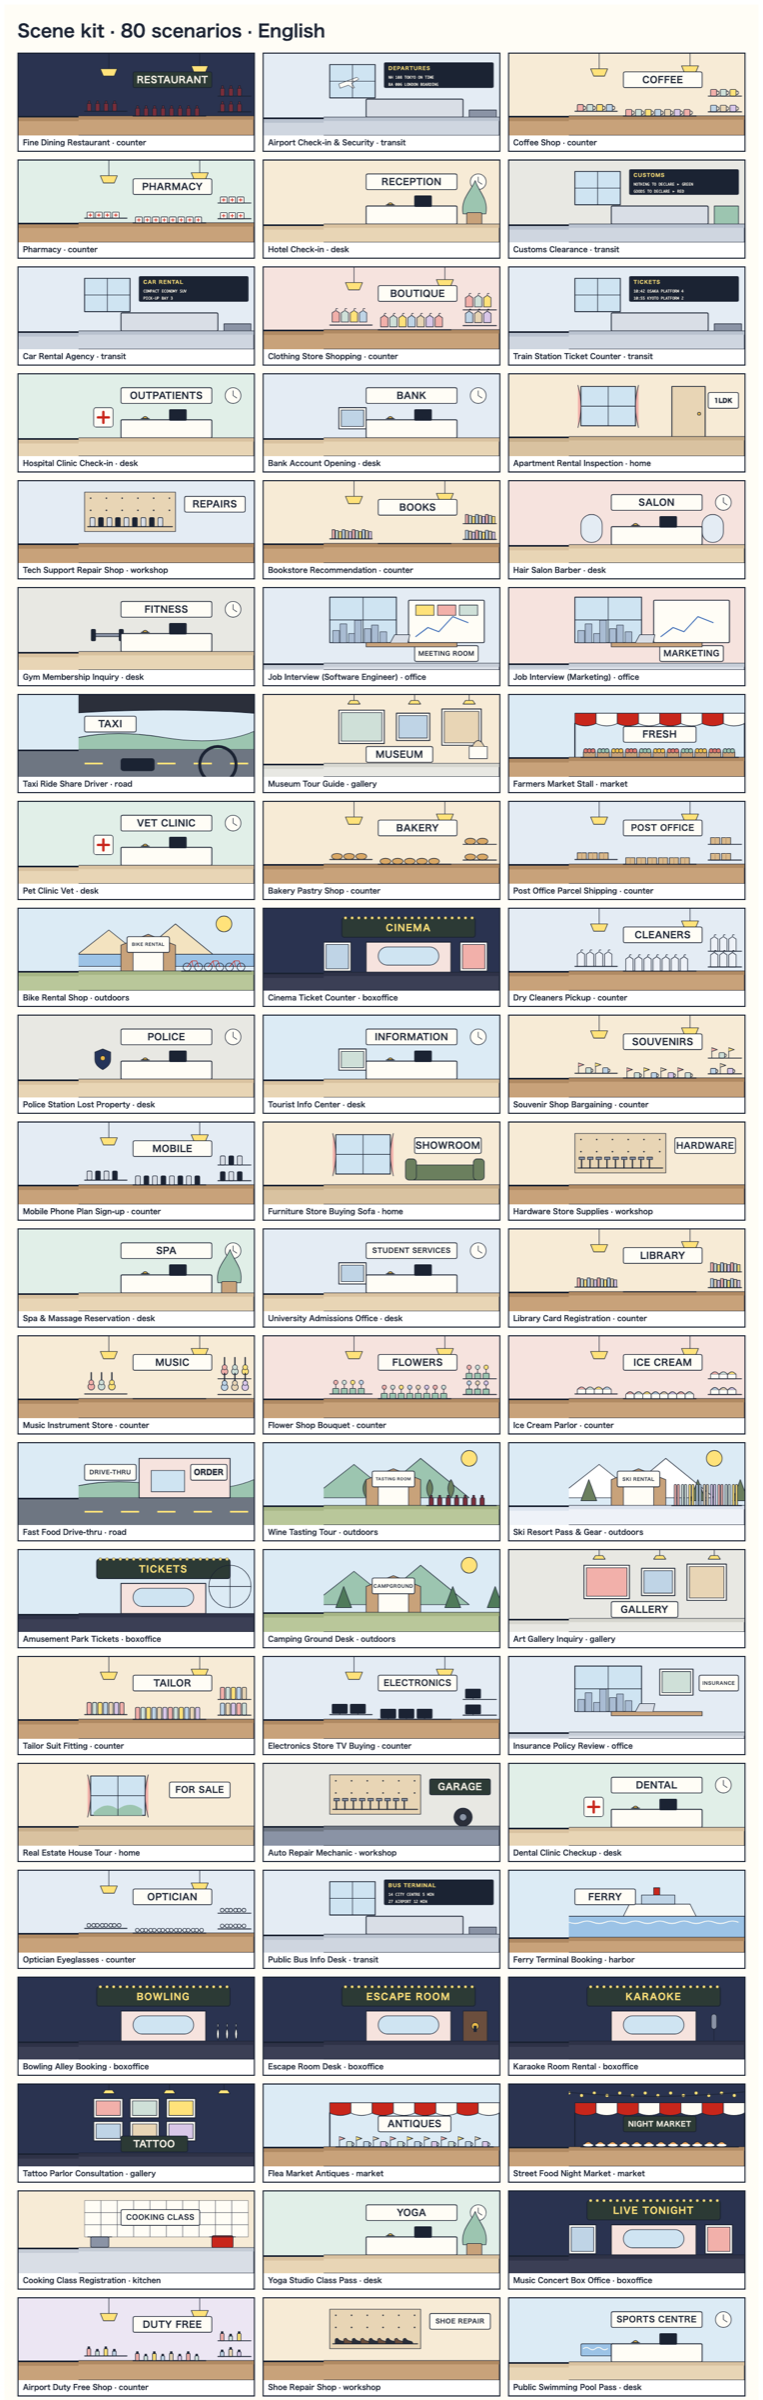
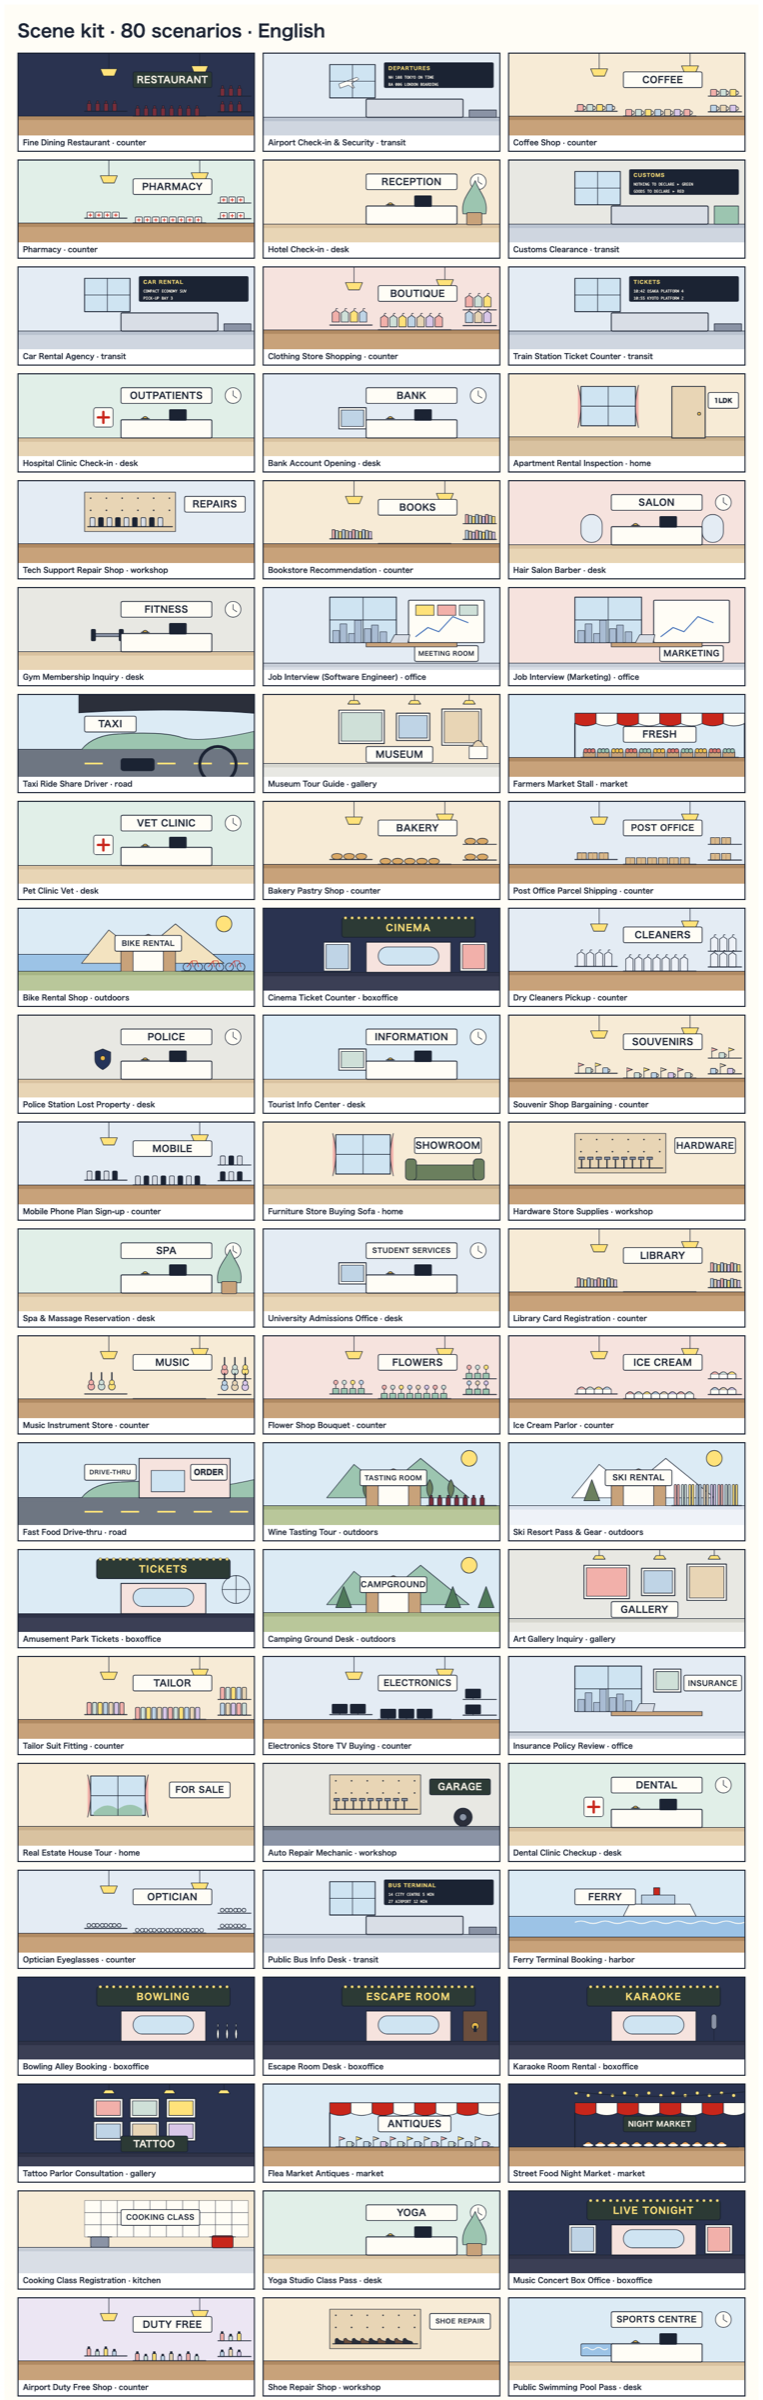
Review fixes for the scene kit: one floor line, nothing cut at the clip, readable signs
From the review of #52:
- The floor was drawn twice — a counter inside the props drawing and the
  full-width layer behind it — and the two met ~2px apart. The drawing no
  longer draws a counter; the layer's line is scaled with the band. Water
  (harbour, beach) is a full-width band of its own.
- Hills, mountains, the harbour sea and the night-market lights started
  left of x=420 and were cut in a straight line; they now start inside it.
- Signs in narrow boxes came out at 9 units ("PRIVATE BANKING"); the office
  and outdoor boxes are wider, and a test fails if any sign in any scenario
  or language is drawn below 14.
- The Ferris wheel moved behind and clear of the TICKETS board; no trees
  under the ski rack; the drive-thru ORDER board reads ご注文 in Japanese;
  a test comment named the wrong file.

diff --git a/frontend/src/art/Scene.tsx b/frontend/src/art/Scene.tsx
@@ -123,15 +123,6 @@ function Plant({ x, y }: { x: number; y: number }) {
   )
 }
 
-function Counter({ y = 206, color = WOOD, edge = WOOD_DARK }: { y?: number; color?: string; edge?: string }) {
-  return (
-    <g>
-      <rect x={0} y={y} width={1000} height={270 - y} fill={color} {...LINE} strokeWidth={3} />
-      <rect x={0} y={y} width={1000} height={12} fill={edge} />
-    </g>
-  )
-}
-
 function Window({ x, y, w, h, night = false, children }: { x: number; y: number; w: number; h: number; night?: boolean; children?: ReactNode }) {
   return (
     <g>
@@ -183,7 +174,6 @@ function CounterScene({ spec, sign }: { spec: SceneSpec; sign: string }) {
       <rect x={430} y={130} width={460} height={8} fill="none" />
       <Shelf x={440} y={190} w={140} goods={spec.goods} rows={1} />
       <Shelf x={880} y={140} w={110} goods={spec.goods} rows={2} />
-      <Counter />
       <Shelf x={600} y={206} w={240} goods={spec.goods === 'books' || spec.goods === 'guitars' || spec.goods === 'bikes' ? 'none' : spec.goods} rows={1} />
     </g>
   )
@@ -209,7 +199,6 @@ function DeskScene({ spec, sign }: { spec: SceneSpec; sign: string }) {
         <rect x={720} y={116} width={56} height={36} rx={3} fill="#1B2333" /><path d="M748 152 v-6" />
         <path d="M630 146 q10 -14 20 0 Z" fill="#E9B949" /><path d="M626 146 h28" />
       </g>
-      <Counter y={210} color="#E8D5B5" edge="#D9C2A0" />
     </g>
   )
 }
@@ -235,7 +224,6 @@ function TransitScene({ spec, sign }: { spec: SceneSpec; sign: string }) {
         {v !== 'customs' && <rect x={900} y={186} width={90} height={24} fill="#8A93A5" />}
         {v === 'customs' && <path d="M900 150 h80 v60 h-80 Z" fill="#9CC5B0" />}
       </g>
-      <Counter y={210} color="#CFD6E0" edge="#B9C2CF" />
     </g>
   )
 }
@@ -250,14 +238,13 @@ function OfficeScene({ spec, sign }: { spec: SceneSpec; sign: string }) {
             <path d="M724 160 l40 -30 l36 14 l46 -50 l50 20" fill="none" stroke="#2A5DB0" strokeWidth={3} />
             {v === 'startup' && <g><rect x={724} y={56} width={60} height={34} fill="#FFE27A" /><rect x={796} y={56} width={60} height={34} fill="#F2B0AA" /><rect x={868} y={56} width={60} height={34} fill="#CFE0D8" /></g>}
           </g>
-        : <g><Frame x={720} y={40} w={110} h={86} fill="#CFE0D8" /><Sign x={850} y={60} w={130} text={sign} /></g>}
+        : <g><Frame x={700} y={40} w={90} h={76} fill="#CFE0D8" /><Sign x={800} y={60} w={190} text={sign} /></g>}
       {(v === 'chart' || v === 'startup') && <Sign x={720} y={190} w={210} text={sign} />}
       {v === 'cowork' && <Plant x={900} y={206} />}
       <g {...LINE}>
         <rect x={560} y={180} width={300} height={14} fill={WOOD} />
         <path d="M640 180 l14 -26 h50 l-6 26" fill="#D9DEE6" />
       </g>
-      <Counter y={248} color="#D9DEE6" edge="#C5CCD6" />
     </g>
   )
 }
@@ -266,27 +253,26 @@ function MarketScene({ spec, sign }: { spec: SceneSpec; sign: string }) {
   const night = spec.variant === 'night'
   return (
     <g>
-      {night && <g>{Array.from({ length: 14 }, (_, i) => <circle key={i} cx={420 + i * 42} cy={28 + (i % 2) * 8} r={6} fill="#FFE27A" stroke={INK} strokeWidth={1.5} />)}<path d="M400 24 q300 30 600 0" fill="none" {...LINE} /></g>}
+      {night && <g>{Array.from({ length: 14 }, (_, i) => <circle key={i} cx={444 + i * 40} cy={28 + (i % 2) * 8} r={6} fill="#FFE27A" stroke={INK} strokeWidth={1.5} />)}<path d="M440 24 q280 30 560 0" fill="none" {...LINE} /></g>}
       {spec.variant === 'greenhouse'
         ? <g {...LINE} fill="none"><path d="M430 200 V80 L600 30 L770 80 V200" fill="#E1EFE8" /><path d="M515 55 V200 M600 30 V200 M685 55 V200 M430 120 H770" /></g>
         : <g>{Array.from({ length: 8 }, (_, i) => <path key={i} d={`M${440 + i * 70} 60 h70 v34 q-35 16 -70 0 Z`} fill={i % 2 ? '#FFFDF6' : '#C8261B'} {...LINE} />)}
             <path d="M440 94 V206 M1000 94 V206" {...LINE} strokeWidth={4} /></g>}
       <Sign x={600} y={104} w={240} text={sign} dark={night} />
-      <Counter y={206} />
       <Shelf x={460} y={206} w={520} goods={spec.goods} rows={1} />
     </g>
   )
 }
 
-function RoadScene({ spec, sign }: { spec: SceneSpec; sign: string }) {
+function RoadScene({ spec, sign, ja }: { spec: SceneSpec; sign: string; ja?: boolean }) {
   const v = spec.variant
   return (
     <g>
-      <path d="M380 150 Q520 110 700 140 T1000 120 V180 H380 Z" fill="#9CC5B0" {...LINE} />
+      <path d="M430 180 Q470 130 560 128 Q700 120 760 140 T1000 120 V180 Z" fill="#9CC5B0" {...LINE} />
       <rect x={0} y={180} width={1000} height={90} fill="#6E7682" />
       <path d="M440 226 h60 M560 226 h60 M680 226 h60 M800 226 h60 M920 226 h60" stroke="#FFE27A" strokeWidth={6} />
       {v === 'roadside' && <g {...LINE}><rect x={700} y={120} width={150} height={60} rx={14} fill="#FFFDF6" /><rect x={720} y={110} width={40} height={12} fill="#2A5DB0" /><rect x={760} y={110} width={40} height={12} fill="#C8261B" /><circle cx={730} cy={182} r={14} fill={INK} /><circle cx={820} cy={182} r={14} fill={INK} /></g>}
-      {v === 'drive' && <g {...LINE}><rect x={620} y={50} width={300} height={130} fill="#F6E3DE" strokeWidth={3} /><rect x={660} y={90} width={110} height={70} fill="#CFE4F2" /><Sign x={790} y={70} w={120} text="ORDER" /></g>}
+      {v === 'drive' && <g {...LINE}><rect x={620} y={50} width={300} height={130} fill="#F6E3DE" strokeWidth={3} /><rect x={660} y={90} width={110} height={70} fill="#CFE4F2" /><Sign x={790} y={70} w={120} text={ja ? 'ご注文' : 'ORDER'} /></g>}
       {v === 'car' && <g {...LINE}><path d="M0 0 H1000 V60 Q700 40 400 60 Q200 70 0 50 Z" fill="#2B2F3A" /><circle cx={880} cy={230} r={60} fill="none" stroke={INK} strokeWidth={10} /><rect x={560} y={210} width={110} height={40} rx={8} fill="#1B2333" /></g>}
       <Sign x={440} y={70} w={170} text={sign} />
     </g>
@@ -305,7 +291,6 @@ function GalleryScene({ spec, sign }: { spec: SceneSpec; sign: string }) {
       {v === 'wedding' && <Shelf x={460} y={206} w={500} goods="flowers" rows={1} />}
       {v === 'museum' && <g {...LINE}><rect x={900} y={170} width={60} height={40} fill="#FFFDF6" /><path d="M910 170 q20 -40 40 0" fill="#E8D5B5" /></g>}
       <Sign x={560} y={170} w={220} text={sign} dark={night} />
-      <Counter y={226} color={night ? '#3B3F55' : '#E8E8E3'} edge={night ? '#2E3247' : '#D6D6CF'} />
     </g>
   )
 }
@@ -319,7 +304,6 @@ function WorkshopScene({ spec, sign }: { spec: SceneSpec; sign: string }) {
       <Shelf x={450} y={150} w={280} goods={spec.goods} rows={1} />
       <Sign x={770} y={50} w={200} text={sign} dark={v === 'garage'} />
       {v === 'garage' && <g {...LINE}><circle cx={880} cy={176} r={30} fill="#2B2F3A" /><circle cx={880} cy={176} r={12} fill="#8A93A5" /></g>}
-      <Counter y={206} color={v === 'garage' ? '#8A93A5' : WOOD} edge={v === 'garage' ? '#6E7682' : WOOD_DARK} />
     </g>
   )
 }
@@ -331,7 +315,6 @@ function HomeScene({ spec, sign }: { spec: SceneSpec; sign: string }) {
       <g>
         {[460, 700].map((x, i) => <g key={x} {...LINE}><rect x={x} y={40} width={120} height={170} fill={i ? '#C8A27A' : '#8C5A4A'} strokeWidth={3} /><circle cx={x + 100} cy={130} r={5} fill="#E9B949" /><rect x={x + 30} y={60} width={60} height={24} fill="#FFFDF6" /><text x={x + 60} y={78} textAnchor="middle" fontFamily="'Space Grotesk', sans-serif" fontWeight={700} fontSize={16} fill={INK}>{i ? sign : '301'}</text></g>)}
         <Plant x={880} y={210} />
-        <Counter y={210} color="#D9C2A0" edge="#C9B08C" />
       </g>
     )
   }
@@ -344,7 +327,6 @@ function HomeScene({ spec, sign }: { spec: SceneSpec; sign: string }) {
       {v === 'house' && <Sign x={720} y={60} w={200} text={sign} />}
       {v === 'empty' && <g {...LINE}><rect x={760} y={40} width={110} height={170} fill="#E8D5B5" strokeWidth={3} /><circle cx={850} cy={130} r={5} fill="#E9B949" /><Sign x={880} y={60} w={100} text={sign} /></g>}
       {v === 'lived' && <g {...LINE}><path d="M840 40 q10 30 -4 60" stroke="#5D7FA6" strokeWidth={3} fill="none" /><Sign x={720} y={50} w={160} text={sign} /></g>}
-      <Counter y={206} color="#D9C2A0" edge="#C9B08C" />
     </g>
   )
 }
@@ -355,13 +337,12 @@ function OutdoorsScene({ spec, sign }: { spec: SceneSpec; sign: string }) {
   return (
     <g>
       <circle cx={900} cy={50} r={26} fill="#FFE27A" {...LINE} />
-      <path d="M380 180 L520 70 L620 150 L740 50 L900 180 Z" fill={snow ? '#FFFFFF' : v === 'beach' ? '#F3E3C0' : '#9CC5B0'} {...LINE} />
-      {v === 'beach' && <rect x={380} y={150} width={620} height={40} fill="#9CC3E6" {...LINE} />}
+      <path d="M430 180 L520 70 L620 150 L740 50 L900 180 Z" fill={snow ? '#FFFFFF' : v === 'beach' ? '#F3E3C0' : '#9CC5B0'} {...LINE} />
+      
       {v === 'vineyard' && Array.from({ length: 5 }, (_, i) => <path key={i} d={`M${560 + i * 70} 180 q-20 -30 0 -60 q20 30 0 60`} fill="#6B7F5E" {...LINE} />)}
-      {(v === 'forest' || snow) && [460, 820, 960].map((x) => <path key={x} d={`M${x} 190 l26 -70 l26 70 Z`} fill={snow ? '#6B7F5E' : '#4F7A5A'} {...LINE} />)}
+      {(v === 'forest' || snow) && (snow ? [470] : [460, 820, 930]).map((x) => <path key={x} d={`M${x} 190 l26 -70 l26 70 Z`} fill={snow ? '#6B7F5E' : '#4F7A5A'} {...LINE} />)}
       <g {...LINE}><path d="M560 206 V120 L650 84 L740 120 V206" fill={WOOD} /><rect x={600} y={140} width={100} height={66} fill="#FFFDF6" /></g>
-      <Sign x={580} y={92} w={140} text={sign} />
-      <Counter y={206} color={snow ? '#EEF2F8' : '#B9C79A'} edge={snow ? '#DCE3EE' : '#A6B585'} />
+      <Sign x={540} y={88} w={220} text={sign} />
       {spec.goods !== 'none' && <Shelf x={760} y={206} w={230} goods={spec.goods} rows={1} />}
     </g>
   )
@@ -371,6 +352,7 @@ function BoxOfficeScene({ spec, sign }: { spec: SceneSpec; sign: string }) {
   const v = spec.variant
   return (
     <g>
+      {v === 'park' && <g {...LINE} fill="none"><circle cx={940} cy={130} r={46} /><path d="M940 84 V176 M894 130 H986" /></g>}
       <rect x={480} y={30} width={440} height={64} rx={8} fill="#2C3A35" {...LINE} strokeWidth={3} />
       {Array.from({ length: 20 }, (_, i) => <circle key={i} cx={492 + i * 22} cy={30} r={5} fill="#FFE27A" stroke={INK} strokeWidth={1} />)}
       <text x={700} y={74} textAnchor="middle" fontFamily="'Space Grotesk', 'Noto Sans JP', sans-serif" fontWeight={700} fontSize={30} fill="#FFE27A" letterSpacing={3}>{sign}</text>
@@ -382,8 +364,6 @@ function BoxOfficeScene({ spec, sign }: { spec: SceneSpec; sign: string }) {
       {(v === 'cinema' || v === 'concert') && <g><Frame x={870} y={110} w={90} h={96} fill="#F2B0AA" /><Frame x={420} y={110} w={90} h={96} fill="#BFD4E6" /></g>}
       {v === 'karaoke' && <g {...LINE}><rect x={890} y={120} width={18} height={50} rx={9} fill="#8A93A5" /><path d="M899 170 V206" /></g>}
       {v === 'escape' && <g {...LINE}><rect x={880} y={110} width={80} height={100} fill="#6B4E3D" /><circle cx={920} cy={160} r={12} fill="#E9B949" /><rect x={916} y={160} width={8} height={18} fill={INK} /></g>}
-      {v === 'park' && <g {...LINE} fill="none"><circle cx={920} cy={120} r={70} /><path d="M920 50 V190 M850 120 H990" /></g>}
-      <Counter y={210} color="#3B3F55" edge="#2E3247" />
     </g>
   )
 }
@@ -392,13 +372,11 @@ function HarborScene({ spec, sign }: { spec: SceneSpec; sign: string }) {
   const port = spec.variant === 'port'
   return (
     <g>
-      <rect x={0} y={150} width={1000} height={70} fill="#9CC3E6" {...LINE} />
-      <path d="M380 170 q20 -8 40 0 t40 0 t40 0 t40 0 t40 0 t40 0 t40 0 t40 0 t40 0 t40 0 t40 0 t40 0 t40 0 t40 0 t40 0" fill="none" stroke="#FFFDF6" strokeWidth={3} />
+      <path d="M440 170 q20 -8 40 0 t40 0 t40 0 t40 0 t40 0 t40 0 t40 0 t40 0 t40 0 t40 0 t40 0 t40 0 t40 0 t40 0 t40 0" fill="none" stroke="#FFFDF6" strokeWidth={3} />
       {port
         ? <g {...LINE}><path d="M760 150 V30 H900 M780 30 V60" fill="none" strokeWidth={4} /><rect x={560} y={110} width={60} height={40} fill="#C8261B" /><rect x={620} y={110} width={60} height={40} fill="#2A5DB0" /><rect x={590} y={70} width={60} height={40} fill="#E9B949" /></g>
         : <g {...LINE}><path d="M600 150 l20 -40 h200 l20 40 Z" fill="#FFFDF6" /><rect x={660} y={80} width={110} height={30} fill="#BFD4E6" /><rect x={700} y={56} width={20} height={24} fill="#C8261B" /></g>}
       <Sign x={440} y={60} w={200} text={sign} />
-      <Counter y={220} color={WOOD} edge={WOOD_DARK} />
     </g>
   )
 }
@@ -412,12 +390,11 @@ function KitchenScene({ sign }: { spec: SceneSpec; sign: string }) {
         <rect x={460} y={150} width={60} height={34} rx={4} fill="#8A93A5" /><path d="M450 150 h80" />
         <rect x={860} y={146} width={70} height={40} rx={6} fill="#C8261B" /><path d="M852 150 h86" />
       </g>
-      <Counter y={186} color="#D9DEE6" edge="#C5CCD6" />
     </g>
   )
 }
 
-const TEMPLATES = {
+const TEMPLATES: Record<SceneSpec['template'], (p: { spec: SceneSpec; sign: string; ja?: boolean }) => ReactNode> = {
   counter: CounterScene, desk: DeskScene, transit: TransitScene, office: OfficeScene,
   market: MarketScene, road: RoadScene, gallery: GalleryScene, workshop: WorkshopScene,
   home: HomeScene, outdoors: OutdoorsScene, boxoffice: BoxOfficeScene, harbor: HarborScene,
@@ -426,7 +403,9 @@ const TEMPLATES = {
 
 /** The floor line each template stands on, so the full-width strip behind
  *  the props meets the counter the props draw. */
-function floorOf(spec: SceneSpec): { y: number; color: string; edge: string } {
+interface Floor { y: number; color: string; edge: string; band?: { y: number; color: string } }
+
+function floorOf(spec: SceneSpec): Floor {
   const v = spec.variant
   switch (spec.template) {
     case 'desk': return { y: 210, color: '#E8D5B5', edge: '#D9C2A0' }
@@ -439,9 +418,10 @@ function floorOf(spec: SceneSpec): { y: number; color: string; edge: string } {
       ? { y: 206, color: '#8A93A5', edge: '#6E7682' } : { y: 206, color: WOOD, edge: WOOD_DARK }
     case 'home': return { y: v === 'hallway' ? 210 : 206, color: '#D9C2A0', edge: '#C9B08C' }
     case 'outdoors': return v === 'snow'
-      ? { y: 206, color: '#EEF2F8', edge: '#DCE3EE' } : { y: 206, color: '#B9C79A', edge: '#A6B585' }
+      ? { y: 206, color: '#EEF2F8', edge: '#DCE3EE' }
+      : { y: 206, color: '#B9C79A', edge: '#A6B585', band: v === 'beach' ? { y: 150, color: '#9CC3E6' } : undefined }
     case 'boxoffice': return { y: 210, color: '#3B3F55', edge: '#2E3247' }
-    case 'harbor': return { y: 220, color: WOOD, edge: WOOD_DARK }
+    case 'harbor': return { y: 220, color: WOOD, edge: WOOD_DARK, band: { y: 150, color: '#9CC3E6' } }
     case 'kitchen': return { y: 186, color: '#D9DEE6', edge: '#C5CCD6' }
     default: return { y: 206, color: WOOD, edge: WOOD_DARK }
   }
@@ -462,14 +442,21 @@ export function Scene({ spec, language = 'English', height = 270 }: {
   const Template = TEMPLATES[spec.template]
   const sign = language === 'Japanese' ? spec.sign[1] : spec.sign[0]
   const floor = floorOf(spec)
-  const top = `${(floor.y / 270) * 100}%`
+  // One ink line for the floor, scaled with the drawing: the props no longer
+  // draw a counter of their own, which met this layer 2px off (review #52).
+  const k = height / 270
+  const pct = (y: number) => `${(y / 270) * 100}%`
   return (
     <div aria-hidden="true" style={{ position: 'relative', height, overflow: 'hidden', background: WALLS[spec.wall] }}>
-      <div style={{ position: 'absolute', left: 0, right: 0, top, bottom: 0, background: floor.color,
-        borderTop: `3px solid ${INK}`, boxShadow: `inset 0 ${(12 / 270) * height}px 0 ${floor.edge}` }} />
+      {floor.band && (
+        <div style={{ position: 'absolute', left: 0, right: 0, top: pct(floor.band.y), height: `${((floor.y - floor.band.y) / 270) * 100}%`,
+          background: floor.band.color, borderTop: `${2 * k}px solid ${INK}` }} />
+      )}
+      <div style={{ position: 'absolute', left: 0, right: 0, top: `calc(${pct(floor.y)} - ${1.5 * k}px)`, bottom: 0,
+        background: floor.color, borderTop: `${3 * k}px solid ${INK}`, boxShadow: `inset 0 ${12 * k}px 0 ${floor.edge}` }} />
       <svg viewBox={`${PROPS_X} 0 ${PROPS_W} 270`} preserveAspectRatio="xMaxYMax meet"
         style={{ position: 'absolute', right: 0, top: 0, height: '100%', width: (PROPS_W / 270) * height }}>
-        <Template spec={spec} sign={sign} />
+        <Template spec={spec} sign={sign} ja={language === 'Japanese'} />
       </svg>
     </div>
   )

diff --git a/frontend/src/art/scenes.test.tsx b/frontend/src/art/scenes.test.tsx
@@ -5,7 +5,7 @@ import { SCENES, sceneFor } from './scenes'
 
 describe('scene kit', () => {
   it('has a backdrop for each of the 80 scenarios', () => {
-    // dev/tests/test_art_kit.py checks these names against app/scenarios/data.
+    // dev/tests/test_scene_kit.py checks these names against app/scenarios/data.
     expect(Object.keys(SCENES)).toHaveLength(80)
   })
 
@@ -15,6 +15,19 @@ describe('scene kit', () => {
         const { container, unmount } = render(<Scene spec={spec} language={language} />)
         expect(container.querySelector('svg'), name).not.toBeNull()
         expect(container.textContent, `${name} (${language})`).toContain(sign)
+        unmount()
+      }
+    }
+  })
+
+  it('keeps every sign readable: no text drawn below 14 units (about 8px at thumbnail size)', () => {
+    // Review #52: "PRIVATE BANKING" came out at 9 units in a 130-wide box.
+    for (const [name, spec] of Object.entries(SCENES)) {
+      for (const language of ['English', 'Japanese']) {
+        const { container, unmount } = render(<Scene spec={spec} language={language} />)
+        for (const t of container.querySelectorAll('text')) {
+          expect(Number(t.getAttribute('font-size')), `${name} (${language}): ${t.textContent}`).toBeGreaterThanOrEqual(14)
+        }
         unmount()
       }
     }
